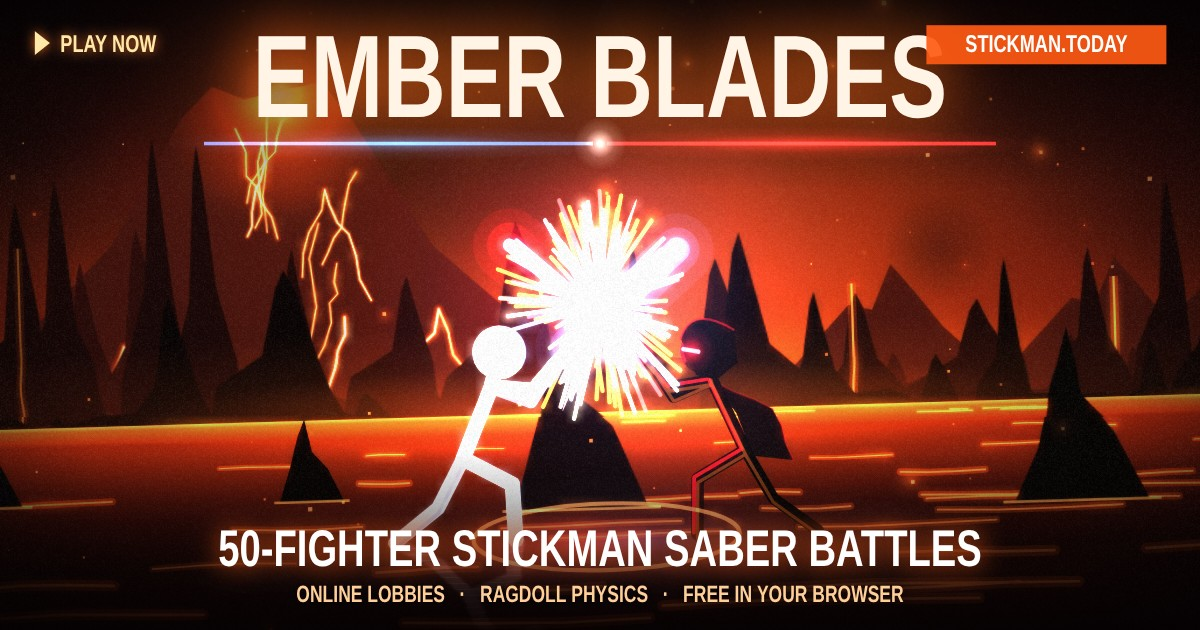
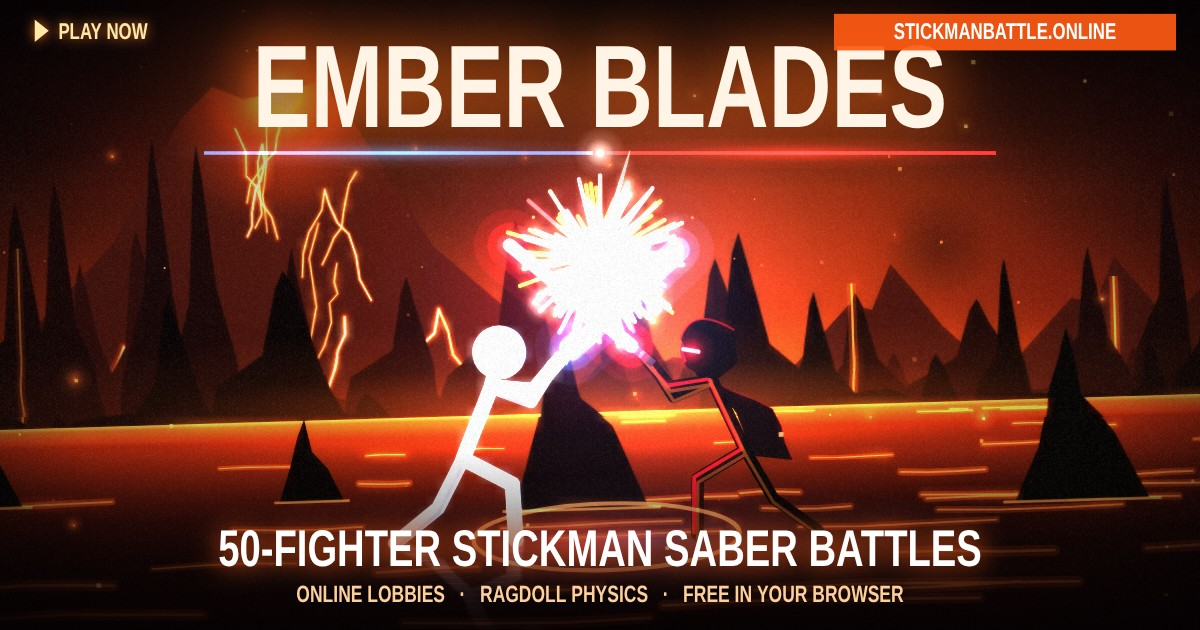
Point share card, title and branding at stickmanbattle.online
Claude-Session: https://claude.ai/code/session_018tW4KREnhs5J19kPhAtuV5

diff --git a/index.html b/index.html
@@ -3,14 +3,14 @@
 <head>
 <meta charset="utf-8">
 <meta name="viewport" content="width=device-width,initial-scale=1,maximum-scale=1,user-scalable=no,viewport-fit=cover">
-<title>Ember Blades — Free Stickman Saber Battles Online | stickman.today</title>
+<title>Stickman Battle Online — Ember Blades | Free 50-Fighter Saber Brawls</title>
 <meta name="description" content="Glowing sabers, ragdoll physics and 50-fighter online brawls. Duel the AI, fight a friend on one keyboard, or open a lobby and share the code. Free, in your browser, no download.">
-<meta name="keywords" content="stickman game, stickman fighting game, stick fight, saber duel, laser sword game, online multiplayer brawl, 50 player battle, browser game, free game, no download, ragdoll physics, local 2 player, fighting game, io game, stickman.today, Ember Blades">
-<meta name="author" content="stickman.today">
+<meta name="keywords" content="stickman battle online, stickman battle, stickman game, stickman fighting game, stick fight, saber duel, laser sword game, online multiplayer brawl, 50 player battle, browser game, free game, no download, ragdoll physics, local 2 player, fighting game, io game, stickmanbattle.online, Ember Blades">
+<meta name="author" content="stickmanbattle.online">
 <meta name="robots" content="index, follow, max-image-preview:large">
 <meta name="theme-color" content="#0b0305">
 <meta name="color-scheme" content="dark">
-<link rel="canonical" href="https://stickman.today/">
+<link rel="canonical" href="https://stickmanbattle.online/">
 <link rel="icon" href="favicon.svg" type="image/svg+xml">
 <link rel="icon" href="icon-192.png" sizes="192x192" type="image/png">
 <link rel="apple-touch-icon" href="apple-touch-icon.png">
@@ -21,21 +21,21 @@
 <meta name="apple-mobile-web-app-title" content="Ember Blades">
 <!-- link previews: Open Graph (Discord, iMessage, Facebook, LinkedIn…) and X / Twitter -->
 <meta property="og:type" content="website">
-<meta property="og:site_name" content="stickman.today">
-<meta property="og:url" content="https://stickman.today/">
-<meta property="og:title" content="EMBER BLADES — 50-fighter stickman saber battles">
+<meta property="og:site_name" content="stickmanbattle.online">
+<meta property="og:url" content="https://stickmanbattle.online/">
+<meta property="og:title" content="STICKMAN BATTLE ONLINE — Ember Blades: 50-fighter saber brawls">
 <meta property="og:description" content="Glowing sabers. Ragdoll physics. Online lobbies for up to 50. Play free in your browser — no download, no sign-up.">
-<meta property="og:image" content="https://stickman.today/og.jpg">
+<meta property="og:image" content="https://stickmanbattle.online/og.jpg">
 <meta property="og:image:width" content="1200">
 <meta property="og:image:height" content="630">
 <meta property="og:image:alt" content="A white stickman with a blue saber clashes with a hooded black stickman with a red saber in a shower of sparks, in front of an erupting volcano.">
 <meta name="twitter:card" content="summary_large_image">
-<meta name="twitter:title" content="EMBER BLADES — 50-fighter stickman saber battles">
+<meta name="twitter:title" content="STICKMAN BATTLE ONLINE — Ember Blades: 50-fighter saber brawls">
 <meta name="twitter:description" content="Glowing sabers. Ragdoll physics. Online lobbies for up to 50. Free in your browser — no download.">
-<meta name="twitter:image" content="https://stickman.today/og.jpg">
+<meta name="twitter:image" content="https://stickmanbattle.online/og.jpg">
 <meta name="twitter:image:alt" content="Two stickmen clash glowing sabers in a shower of sparks in front of an erupting volcano.">
 <script type="application/ld+json">
-{"@context":"https://schema.org","@type":"VideoGame","name":"Ember Blades","url":"https://stickman.today/","image":"https://stickman.today/og.jpg","description":"A fast stickman saber fighting game: story duels against five AI masters, local two-player versus, and online brawls for up to 50 fighters with lobbies.","genre":["Fighting","Action","Multiplayer"],"gamePlatform":["Web browser","Desktop","Mobile"],"applicationCategory":"Game","operatingSystem":"Any","playMode":["SinglePlayer","MultiPlayer","CoOp"],"numberOfPlayers":{"@type":"QuantitativeValue","minValue":1,"maxValue":50},"offers":{"@type":"Offer","price":"0","priceCurrency":"USD"}}
+{"@context":"https://schema.org","@type":"VideoGame","name":"Ember Blades","url":"https://stickmanbattle.online/","image":"https://stickmanbattle.online/og.jpg","description":"A fast stickman saber fighting game: story duels against five AI masters, local two-player versus, and online brawls for up to 50 fighters with lobbies.","genre":["Fighting","Action","Multiplayer"],"gamePlatform":["Web browser","Desktop","Mobile"],"applicationCategory":"Game","operatingSystem":"Any","playMode":["SinglePlayer","MultiPlayer","CoOp"],"numberOfPlayers":{"@type":"QuantitativeValue","minValue":1,"maxValue":50},"offers":{"@type":"Offer","price":"0","priceCurrency":"USD"}}
 </script>
 <style>
   html, body { margin: 0; height: 100%; background: #000; overflow: hidden; touch-action: none; -webkit-user-select: none; user-select: none; overscroll-behavior: none; }
@@ -47,7 +47,7 @@
 </head>
 <body>
 <canvas id="c" aria-label="Ember Blades game"></canvas>
-<h1 class="sr">Ember Blades — free online stickman saber battles</h1>
+<h1 class="sr">Stickman Battle Online — Ember Blades, free online stickman saber battles</h1>
 <noscript><p style="color:#fff;font:16px sans-serif;padding:24px">Ember Blades is a stickman saber fighting game with story duels, local versus and online brawls for up to 50 fighters. It needs JavaScript to run — please enable it and reload.</p></noscript>
 <input id="in_name" class="fld" maxlength="14" placeholder="YOUR NAME" autocomplete="off" spellcheck="false">
 <input id="in_code" class="fld" maxlength="4" placeholder="ABCD" autocomplete="off" spellcheck="false">
@@ -2692,7 +2692,7 @@ const UI = {
   title() {
     this.logo(VH * .34, 1);
     if (Math.sin(this.t * 4) > -.3) txt(touchSeen ? 'TAP TO START' : 'PRESS ENTER', VW / 2, VH * .7, 34, '#fff', 'center', 'rgba(255,120,40,.9)');
-    txt('STICKMAN.TODAY', VW / 2, VH - 52, 18, '#ffcf9a', 'center', 'rgba(255,120,40,.7)'); txt('KEYBOARD · GAMEPAD · TOUCH · ONLINE', VW / 2, VH - 28, 14, '#a08a80');
+    txt('STICKMANBATTLE.ONLINE', VW / 2, VH - 52, 18, '#ffcf9a', 'center', 'rgba(255,120,40,.7)'); txt('KEYBOARD · GAMEPAD · TOUCH · ONLINE', VW / 2, VH - 28, 14, '#a08a80');
   },
   select() {
     const c = ctx, st = this.step, mode = this.mode, two = mode === 'versus' || mode === 'training';
